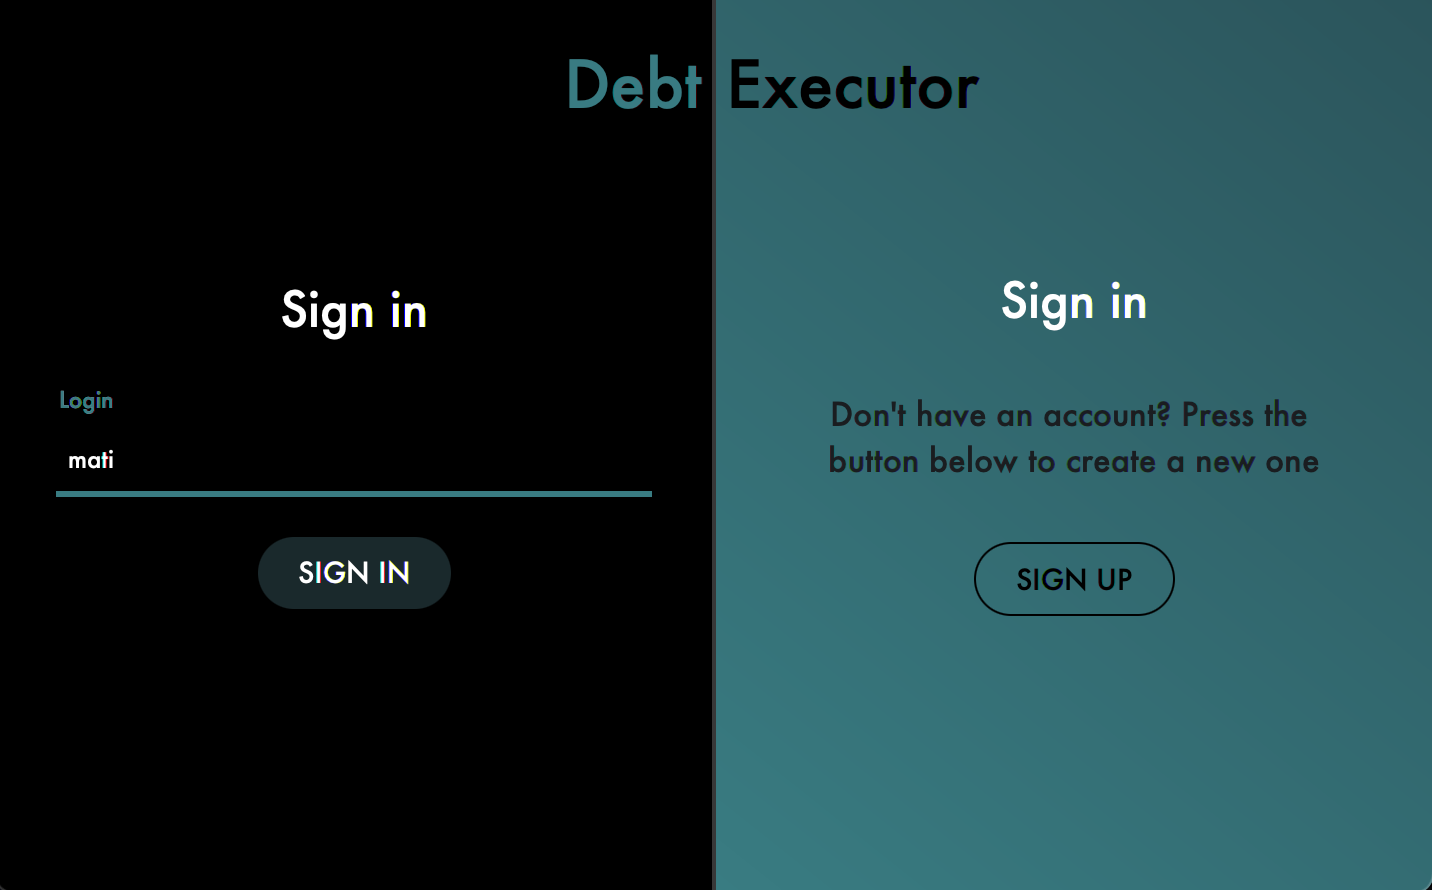
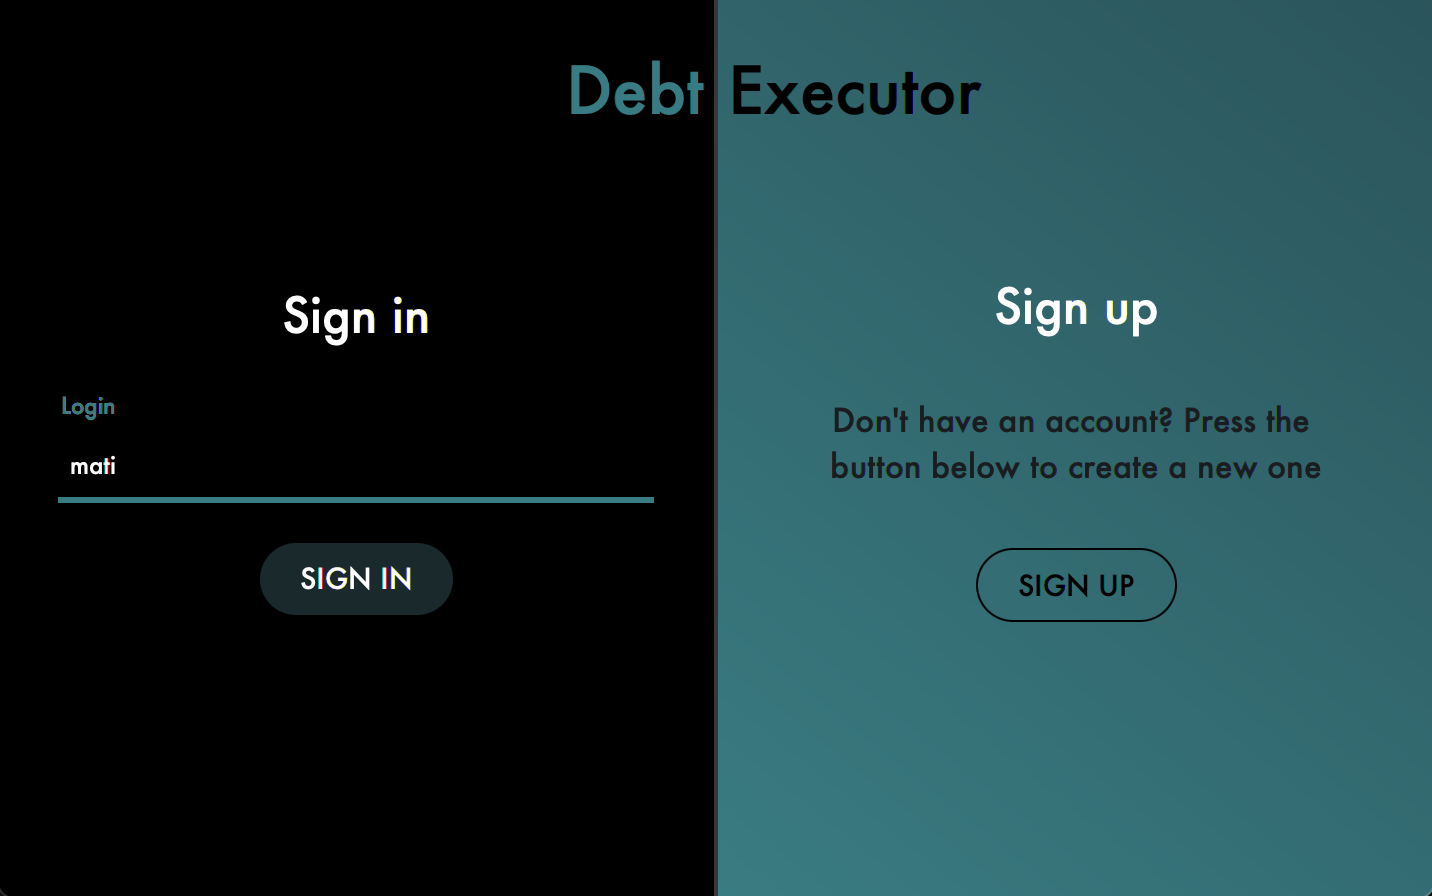
Fix sign in/up forms screenshots, add description to the README

diff --git a/client/src/main/java/pl/edu/agh/debtexecutor/controllers/auth/AuthController.java b/client/src/main/java/pl/edu/agh/debtexecutor/controllers/auth/AuthController.java
@@ -53,7 +53,7 @@ public class AuthController implements Initializable {
     private void openSignInForm() {
         openForm(SIGN_IN_FORM_PATH);
         formChangeButton.setText(signUpText.buttonText());
-        formChangeHeading.setText(signInText.headingText());
+        formChangeHeading.setText(signUpText.headingText());
         formChangeText.setText(signUpText.infoText());
     }
 

diff --git a/README.md b/README.md
@@ -1,6 +1,58 @@
 # DebtExecutor
 
-## Showcase
+## :pencil: Description
+
+This project was created for the Object-Oriented Technologies subject at the AGH UST in 2022/2023.
+
+The project is a simple app that helps people to track personal or group expenses and calculate the amount that needs to be paid back.
+
+## :bulb: Functionalities
+
+### Users and groups
+
+- creating a new user account,
+- logging in to an existing user account,
+- creating groups of users (used to create a group expense)
+
+### Expenses
+
+- displaying a history of all expenses,
+- sorting expenses by title, date or amount,
+- filtering expenses by categories,
+- displaying a graph containing all expenses
+- creating a new personal expense (one user paid for an another user),
+- creating group expenses (one user paid for a group of users - group must have been created before),
+- creating a new expense category
+
+### Summaries
+
+- displaying expense summaries for each user as a list,
+- displaying expense summaries graph
+
+### Simplification of expenses
+
+- displaying a simplified expenses graph (this graph is a simplification of all expenses and represents the minimum number of payments required to pay all debts of all users)
+
+## :hammer: Core technology stack
+
+### Client
+
+- Java 17,
+- JavaFX,
+- Spring Boot,
+- Retrofit
+
+### Server
+
+- Java 17,
+- Spring Boot
+
+## :woman::man: Contributors
+
+- [Ewa Miklewska](https://github.com/Ewa-M),
+- [Jakub Stępień](https://github.com/jkbstepien)
+
+## :eyes: Showcase
 
 ### Auth forms
 
@@ -103,6 +155,8 @@
 | ![Create group form](./docs/light/create-group.png) | ![Create group form](./docs/dark/create-group.png) |
 
 ### Others
+
+#### User panel
 
 | Light mode                                 | Dark mode                                 |
 | ------------------------------------------ | ----------------------------------------- |
